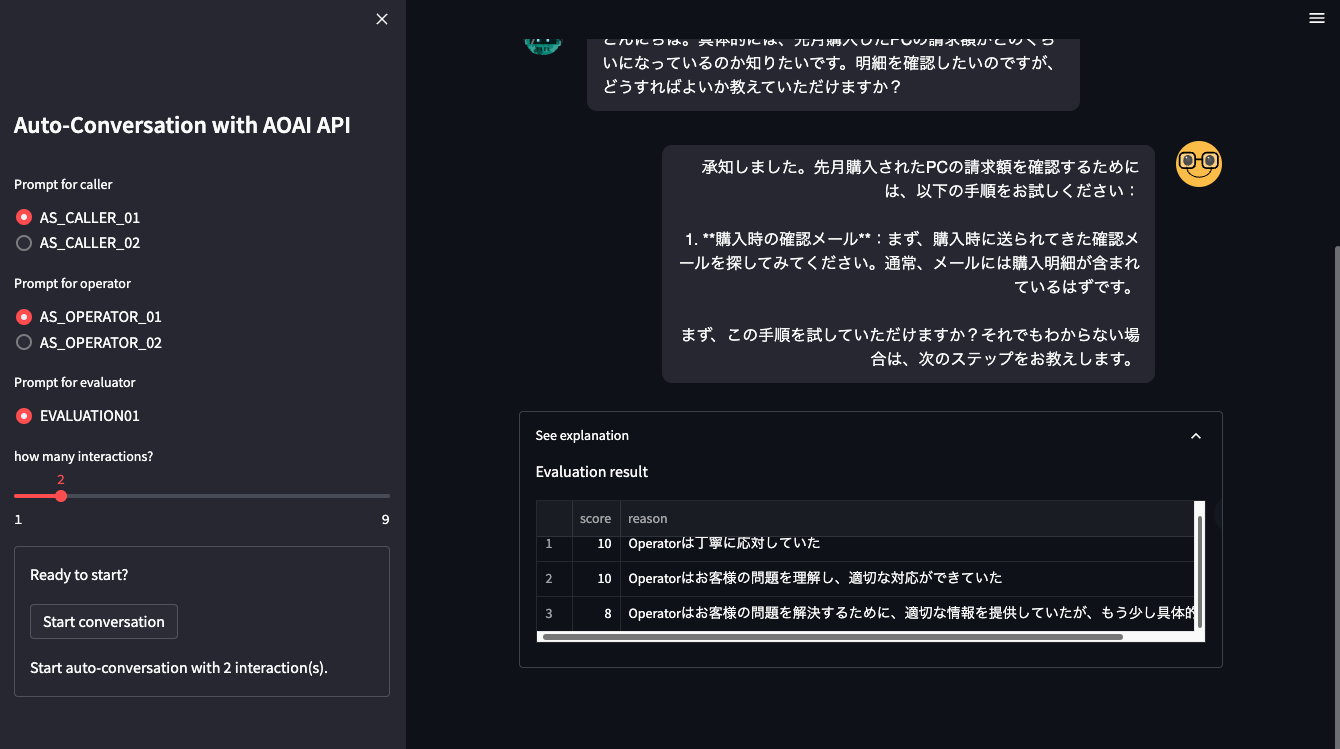
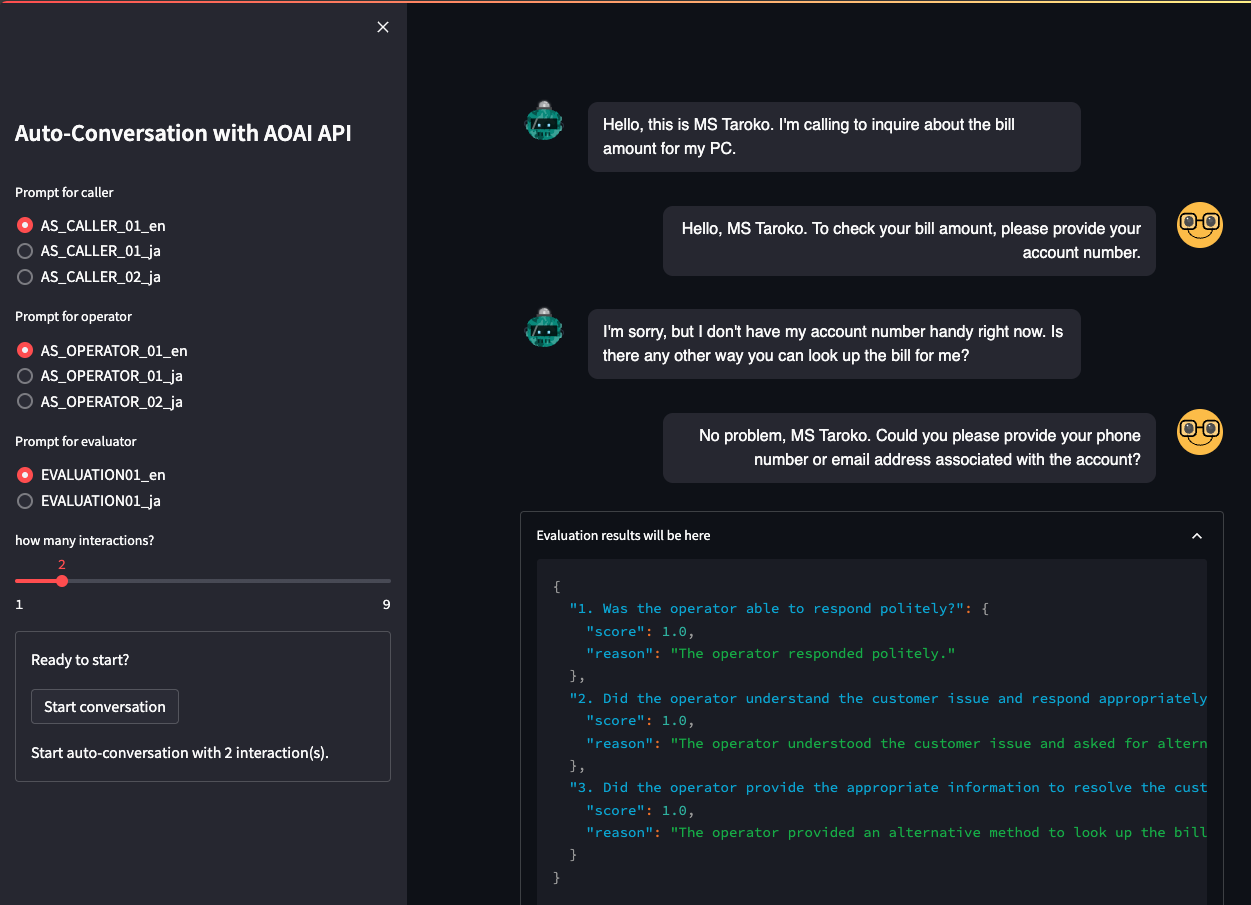
Added English prompts

diff --git a/app.py b/app.py
@@ -69,12 +69,13 @@ else:
                                                 conversation_number=conversation_number,
                                                 ui_flg=True)
 
-
-with st.expander("See explanation"):
-    st.write('Evaluation result')
-    evaluate_result = tools.evaluate_conversation(prompt_evaluator = tools.promptBank['evaluate_prompt']['PROMPTS']['EVALUATION01'],
+with st.expander("Evaluation results will be here"):
+    evaluate_result = tools.evaluate_conversation(prompt_evaluator = tools.promptBank['evaluate_prompt']['PROMPTS'][flag_prompt_evaluator],
                                                     conversation=Conversation)
 
-    # convert json to dataframe
-    df = tools.convert_to_df(evaluate_result)
-    st.dataframe(df)
+    try:
+        # convert json to dataframe
+        df = tools.convert_to_df(evaluate_result)
+        st.dataframe(df)
+    except:
+        st.write(evaluate_result)
